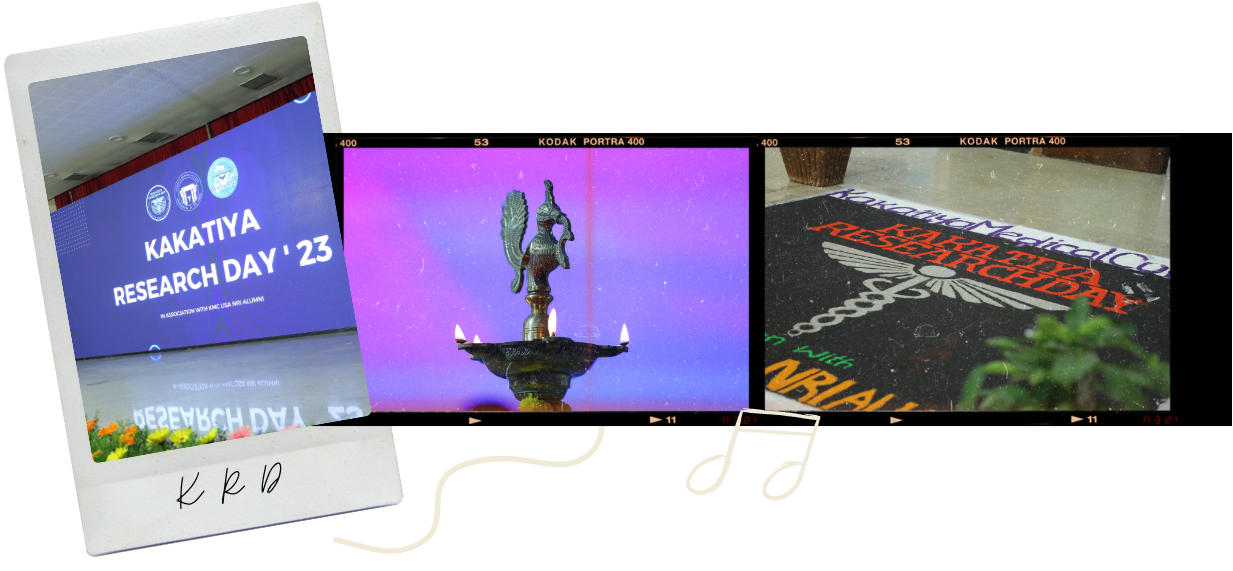
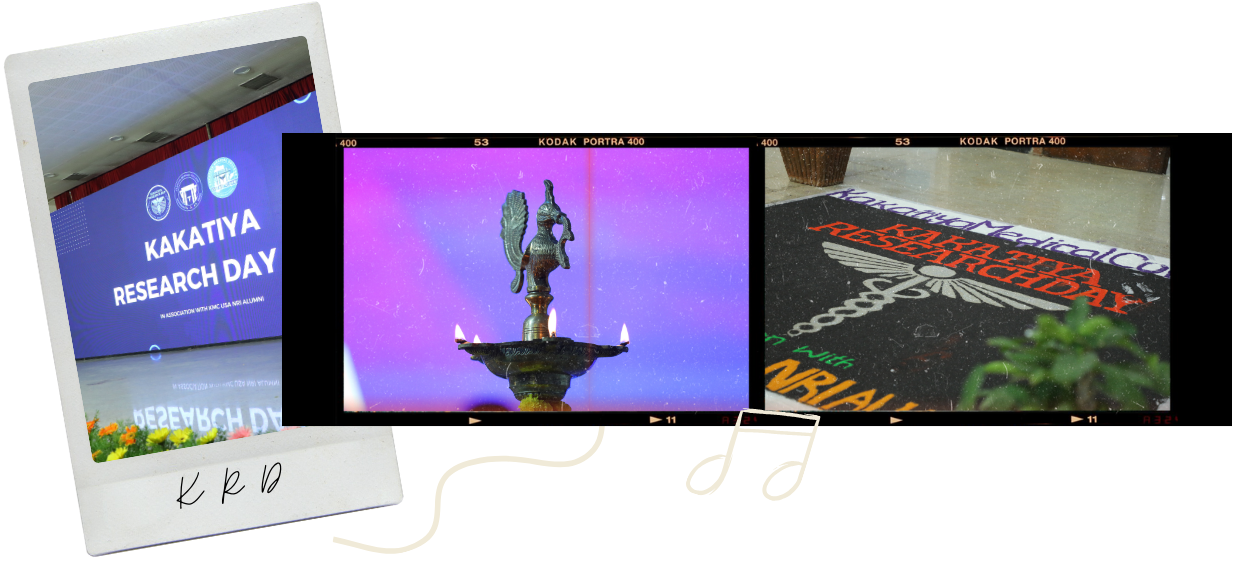
minor addtions

Changed region(s): [[0.2157, 0.2084, 0.3082, 0.7443]]

diff --git a/app/events/components/VerticalTab.jsx b/app/events/components/VerticalTab.jsx
@@ -1,58 +1,41 @@
 "use client";
 import React, { useState, useRef, useEffect } from "react";
-import { motion, useAnimation } from "framer-motion";
-import { useInView } from "react-intersection-observer";
-
+import { motion, useScroll, useTransform } from "framer-motion";
 import VTlist from "./VTlist";
 import "./VTStyles.css";
+import Image from "next/image";
 
-const Box = ({ wrapper, tabId, setTab, eventDetails }) => {
-  const boxVariant = {
-    visible: { opacity: 1, scale: 1, transition: { duration: 0.5 } },
-    hidden: { opacity: 0, scale: 0.8 },
-  };
-
-  const { ref, inView } = useInView({
-    /* Optional options */
-    threshold: 0.5,
-    root: wrapper.current,
+const Box = ({ eventDetails }) => {
+  const targetRef = useRef(null);
+  const { scrollYProgress } = useScroll({
+    target: targetRef,
+    offset: ["start end", "end start"],
   });
-  const control = useAnimation();
-  useEffect(() => {
-    if (inView) {
-      control.start("visible");
-      setTab(tabId);
-    } else {
-      control.start("hidden");
-    }
-  }, [inView]);
+  const scale = useTransform(scrollYProgress, [0, 0.5, 0.7, 1], [0.8, 1, 1, 0]);
+  const opacity = useTransform(scrollYProgress, [0.7, 1], [1, 0]);
   return (
     <motion.div
-      animate={control}
-      variants={boxVariant}
-      ref={ref}
-      className="snap-center snap-always bg-[#16040F] flex flex-col justify-start h-[90%]"
+      style={{ scale, opacity }}
+      ref={targetRef}
+      className="sm:w-3/5 sm:mx-auto h-[250vh] overflow-visible p-5"
     >
-      <div className="w-full object-cover">
-        <img className="event-img" src={eventDetails.eventImg} alt="event 1" />
+      <div className="sticky top-0">
+        <Image
+          height={300}
+          width={400}
+          className="event-img  max-h-80"
+          src={eventDetails.eventImg}
+          alt="event 1"
+        />
       </div>
-      <div className="flex flex-col items-center justify-center">
-        <h3 className="flex justify-center px-4 py-3 bg-[#370a1e] text-[#FF4E4E] font-semibold -translate-y-6 -rotate-2">
-          {eventDetails.eventName}
-        </h3>
-        <p className="p-3 text-gray-100">{eventDetails.eventDesc}</p>
-        <p className="p-3 bg-orange-300/10 text-sm text-gray-100">
-          {eventDetails.slogan}
+      <div className="text-white sticky top-80">
+        <h2>Event Name</h2>
+        <p>
+          Lorem ipsum dolor sit amet consectetur adipisicing elit. Dignissimos
+          repudiandae numquam assumenda atque quas error corrupti dolorum in
+          provident, officia culpa fuga voluptate odit! Aut odit quas sunt
+          placeat eaque.
         </p>
-        <div className="text-gray-200 text-base *:text-start w-full px-5 py-2">
-          <p>Event Coordinator: John Doe</p>
-          <p className="">
-            Contact:{" "}
-            <a className="underline" href="tel:+91XXXXXXXX">
-              +91 XXXXXXXX
-            </a>
-          </p>
-        </div>
       </div>
     </motion.div>
   );
@@ -63,71 +46,19 @@ function VerticalTab({ data }) {
   function btnClick(id) {
     setActiveTabId(id);
   }
-  const wrapperRef = useRef(null);
+
   return (
-    <>
-      <div className="flex items-center flex-col mt-16 mb-8">
-        <h2 className="text-sm text-accent2 uppercase font-bold">Events</h2>
-        <h4 className="text-lg font-semibold text-gray-100">
+    <motion.section className="pt-16  overflow-visible">
+      <div className="flex items-center flex-col mb-16 h-[20vh] justify-center">
+        <h2 className="text-lg text-accent2 uppercase font-bold">Events</h2>
+        <h4 className="text-xl font-semibold text-gray-100">
           Explore All Events Taking Place
         </h4>
       </div>
-      <div className="section__Jobs-container  sm:w-4/5 sm:mx-auto">
-        <div className=" h-[80svh] sm:h-[60svh] flex gap-2">
-          <div className="">
-            <div className="section__Jobs-styledTab">
-              <ul className="section__Jobs-styledTabList">
-                {data.map((el, i) => (
-                  <VTlist
-                    key={i}
-                    onClick={btnClick}
-                    index={i}
-                    activeTabId={activeTabId}
-                  />
-                ))}
-              </ul>
-            </div>
-          </div>
-          <div
-            ref={wrapperRef}
-            className="snap-y snap-mandatory overflow-y-scroll w-full"
-          >
-            {data.map(({ event }, i) => {
-              return (
-                <Box
-                  key={i}
-                  setTab={setActiveTabId}
-                  tabId={i}
-                  wrapper={wrapperRef}
-                  eventDetails={event}
-                />
-              );
-            })}
-          </div>
-        </div>
-        <span
-          className={(() => {
-            let clas = "";
-            if (activeTabId === 0) {
-              clas += "index1-chosen";
-            } else if (activeTabId === 1) {
-              clas += "index2-chosen";
-            } else if (activeTabId === 2) {
-              clas += "index3-chosen";
-            } else if (activeTabId === 3) {
-              clas += "index4-chosen";
-            } else if (activeTabId === 4) {
-              clas += "index5-chosen";
-            } else if (activeTabId === 5) {
-              clas += "index6-chosen";
-            }
-            return clas;
-          })()}
-        >
-          &nbsp;
-        </span>
-      </div>
-    </>
+      {data.map((el, i) => {
+        return <Box key={i} eventDetails={el.event} />;
+      })}
+    </motion.section>
   );
 }
 

diff --git a/app/events/components/Event.jsx b/app/events/components/Event.jsx
@@ -17,7 +17,7 @@ const Event = () => {
         event: {
           eventNumber: "2.",
           eventName: "Med-Exibition",
-          eventImg: "exhibition.jpg",
+          eventImg: "/exhibition.jpg",
           eventDesc:
             "The medical exhibition is a vibrant hub of activity, featuring a variety of small games, workshops, and interactive displays. From hands-on demonstrations of medical procedures to informative sessions on healthcare innovations, attendees can immerse themselves in a diverse range of educational experiences.",
           slogan:
@@ -28,7 +28,7 @@ const Event = () => {
         event: {
           eventNumber: "3.",
           eventName: "Debate",
-          eventImg: "debate.jpg",
+          eventImg: "/debate.jpg",
           eventDesc:
             "Participants engage in lively debates on contemporary medical topics, presenting arguments and counterarguments in a structured format.",
           slogan: "Debate the Issues, Defend Your Stance: Challenge Accepted?",
@@ -38,7 +38,7 @@ const Event = () => {
         event: {
           eventNumber: "4.",
           eventName: "Hackathon",
-          eventImg: "hackathon.jpg",
+          eventImg: "/hackathon.jpg",
           eventDesc:
             "The hackathon is a collaborative event where participants work in teams to develop innovative solutions to specific medical challenges within a limited time frame. It encourages creativity, teamwork, and rapid prototyping, fostering a culture of innovation and problem-solving in healthcare.",
           slogan:
@@ -49,7 +49,7 @@ const Event = () => {
         event: {
           eventNumber: "5.",
           eventName: "Paper Presentation",
-          eventImg: "paperpresentation.jpg",
+          eventImg: "/paperpresentation.jpg",
           eventDesc:
             "Participants present their research findings and studies on various medical topics. Each presentation is followed by a Q&A session, allowing for a deeper discussion and analysis of the research presented.",
           slogan: "From Theory to Reality: Present your paper, Inspire Change",
@@ -59,7 +59,7 @@ const Event = () => {
         event: {
           eventNumber: "6.",
           eventName: "Symposium",
-          eventImg: "symposium.jpg",
+          eventImg: "/symposium.jpg",
           eventDesc:
             "The symposium brings together experts and professionals from various fields of medicine for in-depth discussions and presentations.",
           slogan: "Fueling Minds, Igniting Innovation: Symposium",
@@ -69,7 +69,7 @@ const Event = () => {
         event: {
           eventNumber: "7.",
           eventName: "Poster Presentation",
-          eventImg: "posterpresentation.jpg",
+          eventImg: "/posterpresentation.jpg",
           eventDesc:
             "Participants present their research findings and studies on various medical topics. Each presentation is followed by a Q&A session, allowing for a deeper discussion and analysis of the research presented.",
           slogan: "From Theory to Reality: Present your paper, Inspire Change",

diff --git a/app/components/Archive.jsx b/app/components/Archive.jsx
@@ -1,3 +1,4 @@
+import Image from "next/image";
 import Arrow from "./icons/Arrow";
 import Link from "next/link";
 
@@ -10,10 +11,17 @@ const Archive = () => {
         Discover previous editions of kriti
         <span className="text-accent">.</span>
       </h3>
-      <div className="bg-[url('/archive.webp')] flex items-center justify-center size-96 bg-cover -translate-x-4">
+      <div className="relative">
+        <Image
+          height={400}
+          width={300}
+          src={"/archive.png"}
+          alt="A polaroid of Kakatiya research day."
+          className=" filter brightness-90"
+        />
         <Link
           href={"/archives"}
-          className="flex items-center justify-between gap-3 bg-accent hover:scale-105 transition-all px-4 py-2 hover focus:ring focus:ring-[#e3616c] rounded-lg text-white font-semibold text-base lg:text-lg translate-x-2 -translate-y-4"
+          className="flex items-center justify-between gap-3 bg-accent absolute top-0 left-[5.75rem] translate-y-[15rem] my-auto -rotate-[10deg] hover:scale-105 transition-all px-4 py-2 hover focus:ring focus:ring-[#e3616c] rounded-lg text-white font-semibold text-base lg:text-lg"
         >
           Archive <Arrow color={"#eee"} size={12} />
         </Link>

diff --git a/app/loading.jsx b/app/loading.jsx
@@ -1,6 +1,6 @@
 const Loading = () => {
   return (
-    <div className="flex h-screen text-white bg-bgSecondary justify-center items-center text-7xl font-semibold">
+    <div className="flex h-screen text-white bg-bgSecondary justify-center items-center text-7xl font-semibold overflow-hidden">
       <div className="relative animate-pulse flex flex-col -translate-y-8">
         <span className="w-full text-center text-lg mb-2 -translate-x-2">
           welcome to

diff --git a/app/events/page.jsx b/app/events/page.jsx
@@ -17,7 +17,7 @@ async function page() {
     <>
       <Nav />
 
-      <main className="bg-[#090909]">
+      <main className="bg-[#090909] relative">
         <SecondaryHero
           title={"Explore upcoming Events."}
           body={
